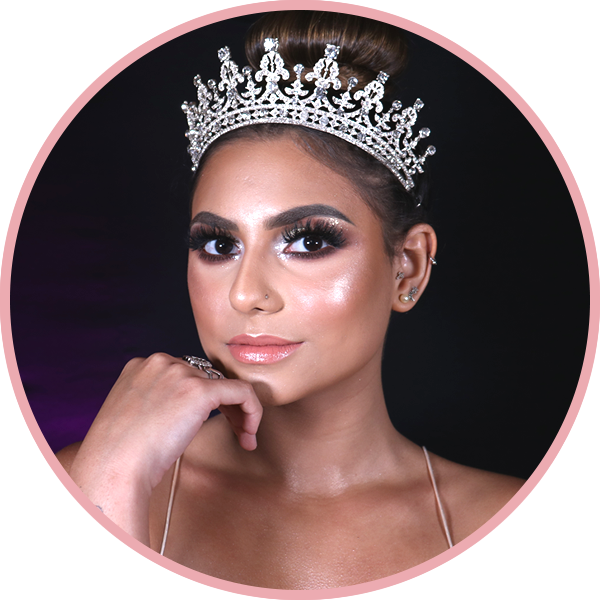
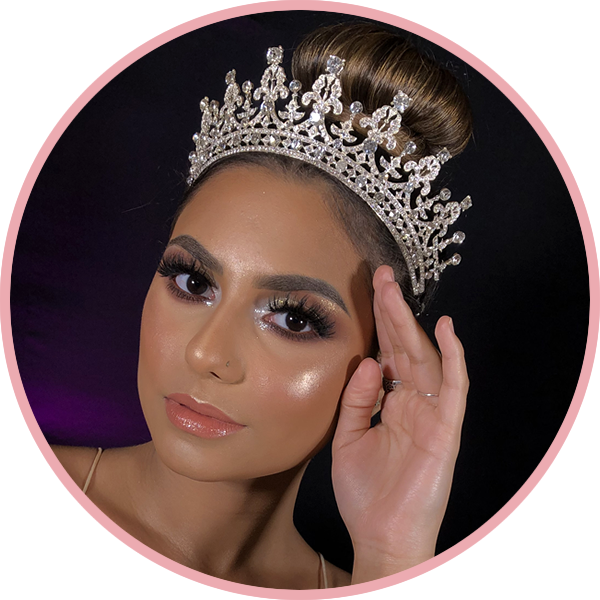
Acerto imagens curso e pele negra leve

diff --git a/index.html b/index.html
@@ -279,7 +279,7 @@
                         <ul class="list-unstyled li-space-lg">
                             <li class="media">
                                 <i class="fas fa-square"></i>
-                                <div class="media-body">PELE NEGRA: Acabamento Matte</div>
+                                <div class="media-body">PELE NEGRA: Acabamento Leve</div>
                             </li>
                             <li class="media">
                                 <i class="fas fa-square"></i>
